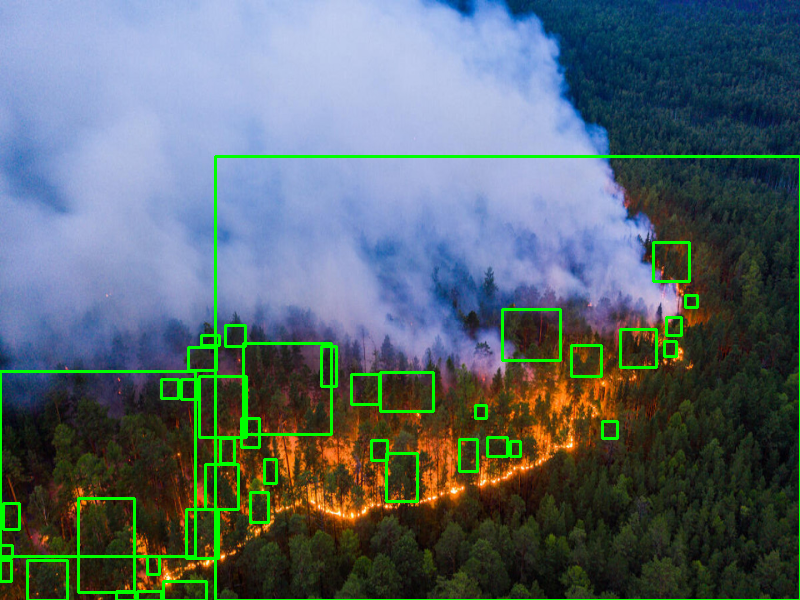
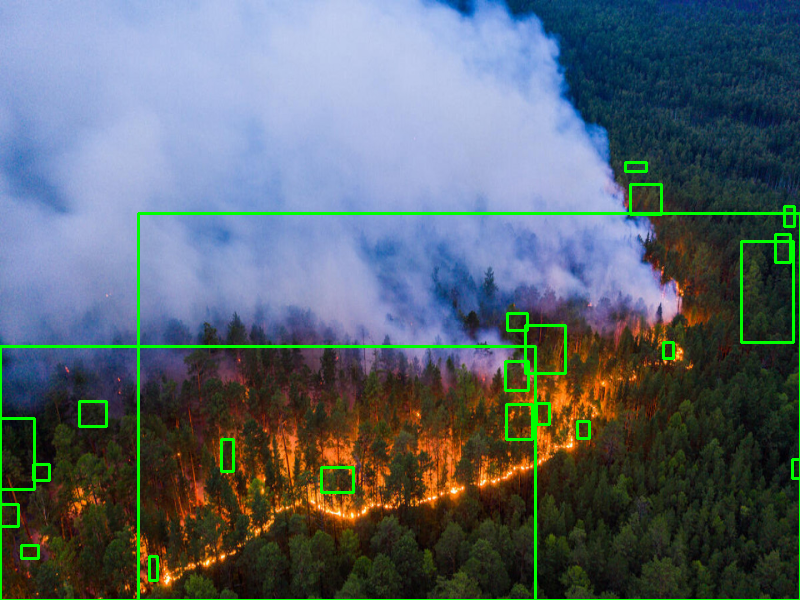
ok

diff --git a/sari/python_server/utils.py b/sari/python_server/utils.py
@@ -46,41 +46,16 @@ def detect_fire(image):
     return image, fire_boxes
 
 def detect_trees(image):
-  lower_trees = np.array([0, 15, 0])
-  upper_trees = np.array([128, 200, 64])
-
-  hsv = cv2.cvtColor(image, cv2.COLOR_BGR2HSV)
-
-  tree_mask = cv2.inRange(hsv, lower_trees, upper_trees)
-
-  tree_mask = cv2.erode(tree_mask, None, iterations=2)
-  tree_mask = cv2.dilate(tree_mask, None, iterations=4)
-
-  contours, _ = cv2.findContours(tree_mask, cv2.RETR_EXTERNAL, cv2.CHAIN_APPROX_SIMPLE)
-
-  min_area = 100
-  tree_contours = [cnt for cnt in contours if cv2.contourArea(cnt) > min_area]
-
-  # Filter contours based on maximum box size
-  max_box_size = 125
-  tree_boxes = [cv2.boundingRect(cnt) for cnt in tree_contours if cv2.boundingRect(cnt)[2] <= max_box_size and cv2.boundingRect(cnt)[3] <= max_box_size]
-
-  for x, y, w, h in tree_boxes:
-    cv2.rectangle(image, (x, y), (x + w, y + h), (0, 255, 0), 2)
-
-  return image, tree_boxes
-
-def detect_trees(image):
-    lower_trees = np.array([0, 15, 0])
-    upper_trees = np.array([128, 200, 64])
+    lower_trees = np.array([0, 10, 0])
+    upper_trees = np.array([96, 255, 126])
 
 
     hsv = cv2.cvtColor(image, cv2.COLOR_BGR2HSV)
 
     tree_mask = cv2.inRange(hsv, lower_trees, upper_trees)
 
-    tree_mask = cv2.erode(tree_mask, None, iterations=2)
-    tree_mask = cv2.dilate(tree_mask, None, iterations=4)
+    tree_mask = cv2.erode(tree_mask, None, iterations=3)
+    tree_mask = cv2.dilate(tree_mask, None, iterations=2)
 
     contours, _ = cv2.findContours(tree_mask, cv2.RETR_EXTERNAL, cv2.CHAIN_APPROX_SIMPLE)
 
@@ -92,9 +67,6 @@ def detect_trees(image):
         cv2.rectangle(image, (x, y), (x + w, y + h), (0, 255, 0), 2)
 
     return image, tree_boxes
-
-
-
 
 
 def detect_smoke(image):
@@ -125,7 +97,7 @@ def detect_stuff():
     images.append(cv2.imread("./python_server/static/fire.jpg"))
     images.append(cv2.imread("./python_server/static/fire2.jpg"))
     images.append(cv2.imread("./python_server/static/fire3.jpg"))
-    images.append(cv2.imread("./python_server/static/fire4.jpg"))
+    # images.append(cv2.imread("./python_server/static/fire4.jpg"))
     
     hahaimages = []
     for i, image in enumerate(images):
